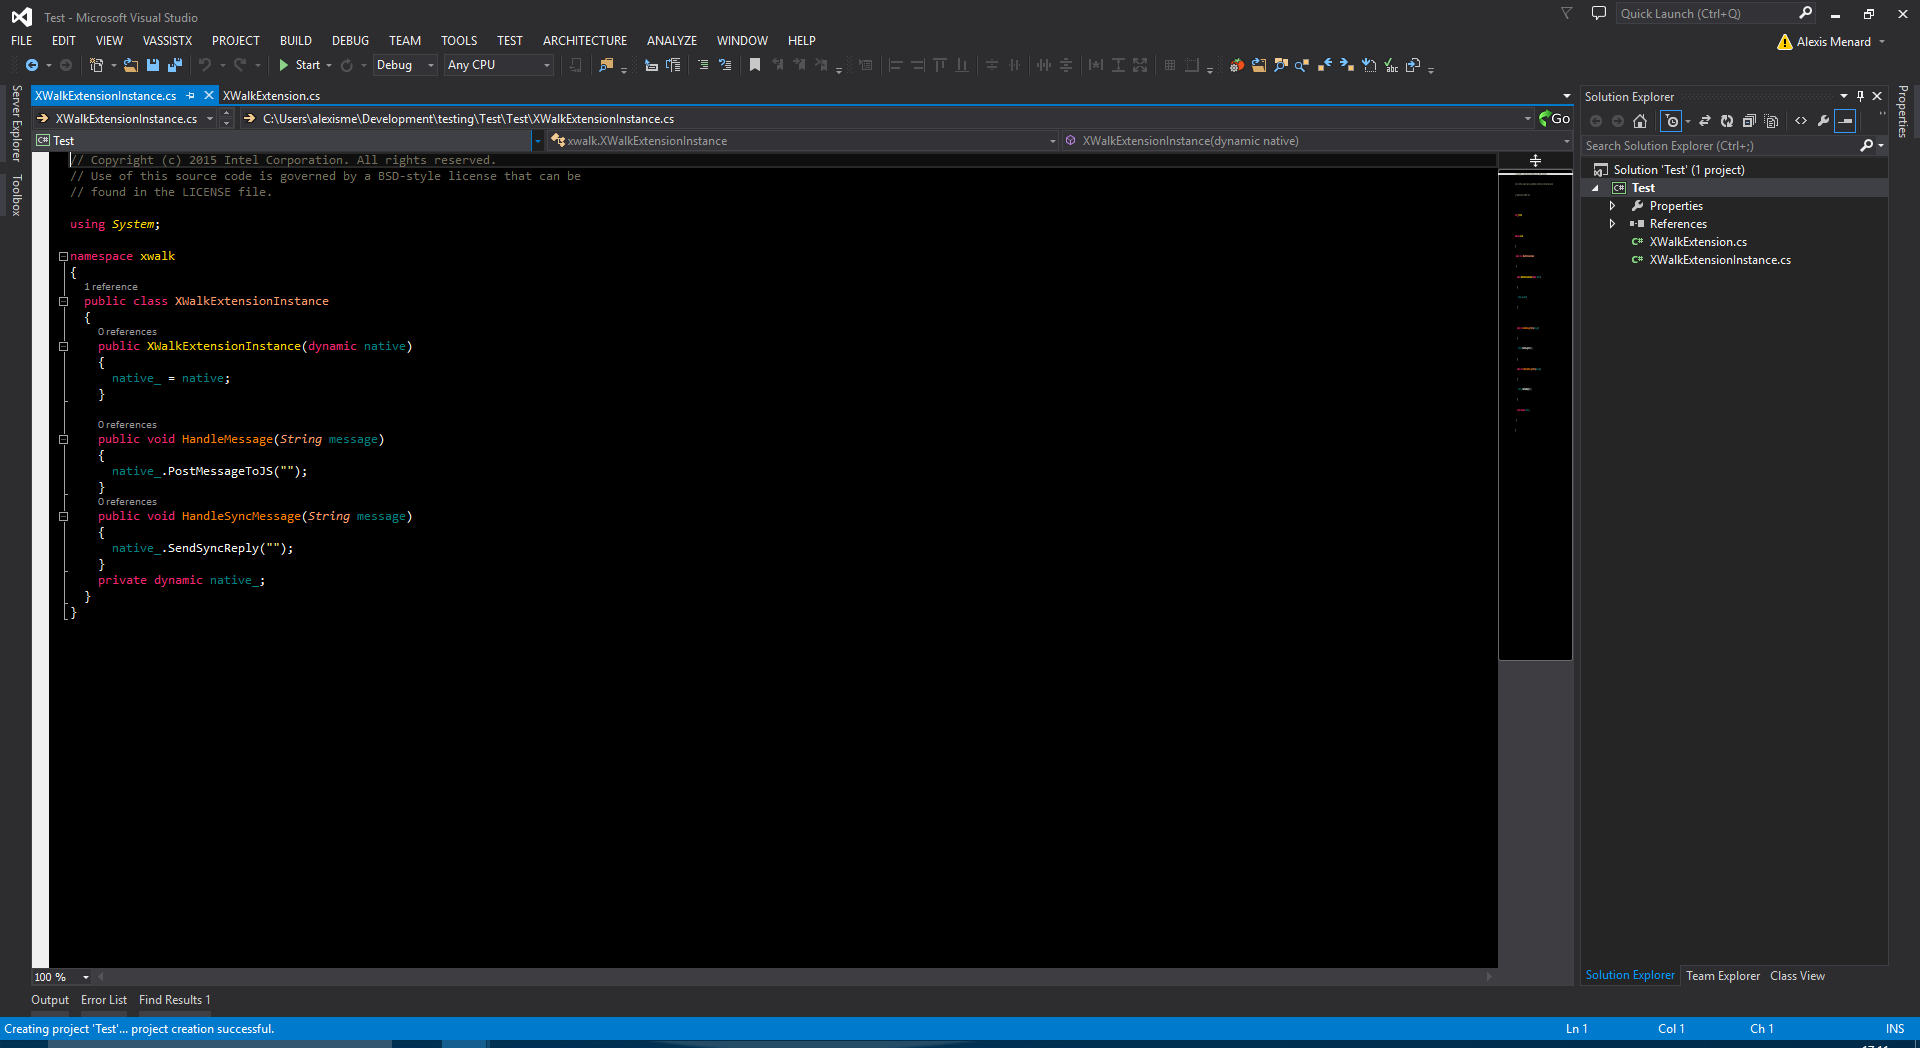
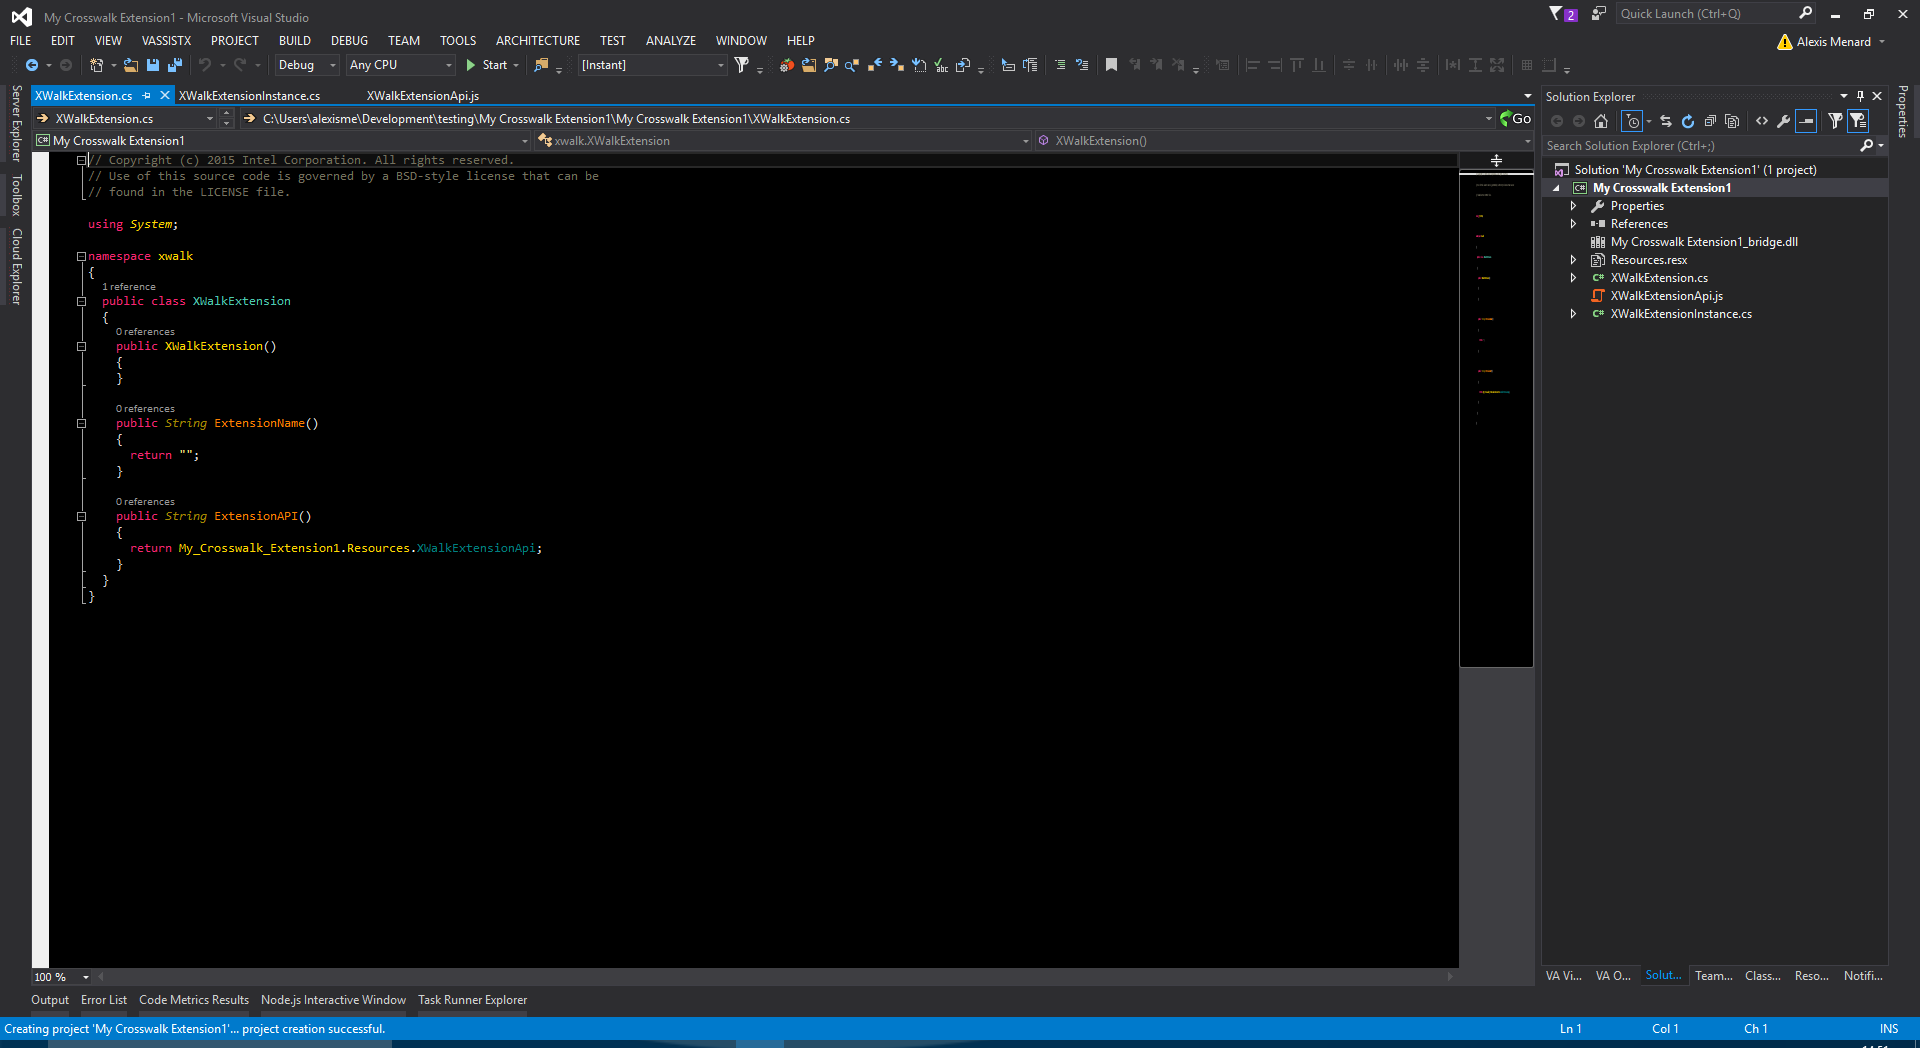
[Windows] Adapt the documentation after the release of 2.0 of the .NET template.
- Put the new link (unfortunately changing the name of the pluging is not
  possible in the Visual Studio Gallery)
- Make new screenshots now that the JS API is located in a separate file
- Tweak the documentation of the brigde now that it is copied
  automatically by the template
- Template has been tested and released on MSVS 2015

diff --git a/public/documentation/windows/net_extensions.md b/public/documentation/windows/net_extensions.md
@@ -13,9 +13,9 @@ There are two main classes you should know about while writing a .NET extension:
 Each .NET extension is required to ship with a bridge which is provided by Crosswalk. Simply copy it and rename it according to your .NET extension DLL name with the `_bridge` suffix.  For example, if your extension is called `echo_extension.dll`, the bridge should be `echo_extension_bridge.dll`.
 
 ## <a class='doc-anchor' id='Writing-your-Net-Extension'></a>Writing your .NET Extension
-1. Download and install [Visual Studio 2013](https://www.visualstudio.com/en-us/downloads/download-visual-studio-vs.aspx). (2015 has not been tested at the moment).
+1. Download and install [Visual Studio 2013 or 2015](https://www.visualstudio.com/en-us/downloads/download-visual-studio-vs.aspx).
 
-2. Download and install the [Crosswalk .NET Extensions Visual Studio Template](https://visualstudiogallery.msdn.microsoft.com/51e648be-c91a-40fa-9d13-8f49ec134e86). You can alternatively search for it in Visual Studio Extensions and Updates dialog.
+2. Download and install the [Crosswalk .NET Extensions Visual Studio Template](https://visualstudiogallery.msdn.microsoft.com/0e042110-a345-413c-9014-5418ff1f2d00). You can alternatively search for it in Visual Studio Extensions and Updates dialog.
 
    This template will help you to quickly create an extension in Visual Studio.
 
@@ -36,13 +36,13 @@ Each .NET extension is required to ship with a bridge which is provided by Cross
 In the `XWalkExtension` class there are two key methods you should implement:
 
 *   `ExtensionName()`: This is the prefix of your extension in JavaScript and how you are expected to call the API provided by your extension. For example you can return “echo” and all your call in JavaScript will be prefixed with “echo.”
-*   `ExtensionAPI()`: This is the API you’re going to expose to JavaScript. The image below is an example of how this API is used with a simple “Echo” app.
+*   `ExtensionAPI()`: This is the API you’re going to expose to JavaScript. This API is read from the file XWalkExtensionApi.js. Considering the "echo" example, here is how the API file looks like:
 
    <a href="/assets/win7-extension-config.png"><img src="/assets/win7-extension-config.png" style="display: block; margin: 0 auto"/></a>
 
 ### Writing the Extension API
 
-*   Any properties (methods, objects, constants, etc.) you want to expose as the JavaScript API for your extension should be appended to the exports object inside the JavaScript API string. This has a similar role to the exports object in nodejs modules, defining the public face of the API. Any other variables not attached to exports are only scoped to this file and won't pollute the web application's global scope. In this simple `echo` example we have two methods exposed : `echo` and `syncEcho`. In the JavaScript side they will be called like this: `echo.echo(“test”)` and `echo.syncEcho(“test”)`
+*   Any properties (methods, objects, constants, etc.) you want to expose as the JavaScript API for your extension should be appended to the exports object inside the JavaScript API file. This has a similar role to the exports object in nodejs modules, defining the public face of the API. Any other variables not attached to exports are only scoped to this file and won't pollute the web application's global scope. In this simple `echo` example we have two methods exposed : `echo` and `syncEcho`. In the JavaScript side they will be called like this: `echo.echo(“test”)` and `echo.syncEcho(“test”)`
 *   `extension` object is set by the .NET extension framework and contains methods to communicate with the .NET side of your extension: `extension.PostMessage()` and `extension.internal.sendSyncMessage()`. The former is simple, it sends a message from JavaScript to .NET which will be responsible to handle it. `sendSyncMessage` is similar however it is a synchronous call (and thus blocking) which means that it will not return until the .NET side gives an answer.
 *   `extension.setMessageListener()` sets a function to invoke for each message returned by the .NET side of the extension. In this simple example the `echo()` function takes a callback from the caller to be called when the .NET echoed our message. In that case the listener is called when .NET replied and the callback will be invoked.
 
@@ -95,6 +95,7 @@ The ability to package your .MSI installer with your .NET extension is being imp
 ### Testing your .NET Extension using Crosswalk for Windows binary
 After downloading Crosswalk for Windows and unzipping it you can easily try your extension.
 
+If you did not use the Visual Studio template you need to do the next two steps. Starting with version 2.0 of the template the bridge will automatically be added for you.
 1.  Make sure you copy xwalk_extension_bridge.dll in the folder where you built your .NET extension (where the .DLL is located).
 2.  Rename `xwalk_extension_bridge.dll` so that it looks identical as your extension DLL name with the suffix `_bridge` as the only difference. Here is an example:
 
